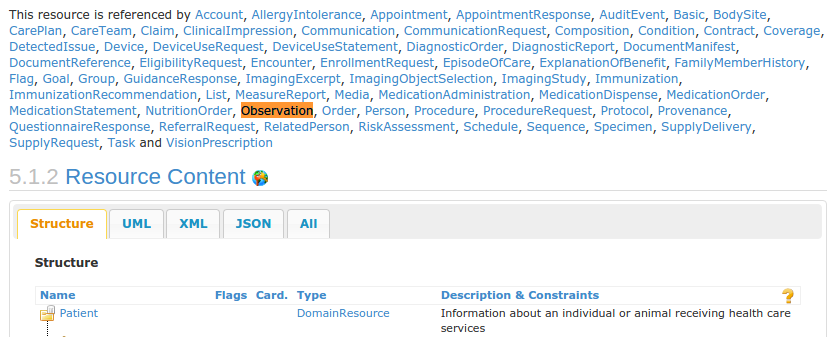
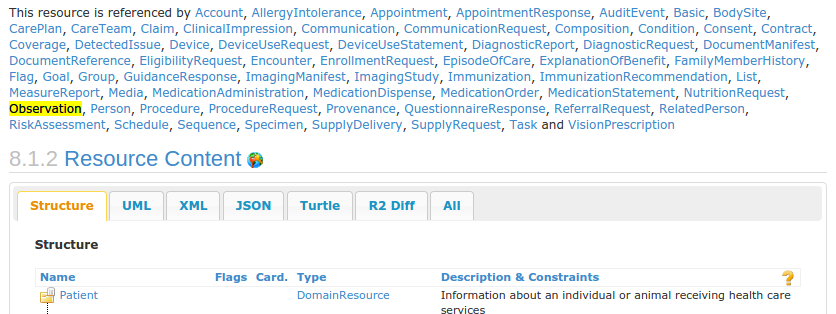
Updated Patient with references to STU3 (not fully)
Need to wait for Brian to fix his server so I can update screenshots

diff --git a/patient-with-references.html b/patient-with-references.html
@@ -148,10 +148,10 @@
                         
                         <p>In the same Postman window, press Ctrl/&#8984;+F and copy/paste <code>reference</code> - you'll find that the Patient contains <a href="images/patient-references.png" data-lightbox="patient-references">just one reference</a>, which is the medical organisation that the Patient belongs to. Even though our patient had an encounter (when he came into the hospital for his procedure), it is not listed here.</p>
                         
-                        <p>Instead, it is the Encounter that has a reference to the Patient. That way, more Encounters can be added without having to update the Patient resource every time (which can become very time-consuming in a large system). In the next section, you'll see how you can find the Encounter that's associated with your Patient.</p>
+                        <p>Instead, it is the Encounter that has a reference to the Patient. That way more Encounters can be added without having to update the Patient resource every time (which can become very time-consuming in a large system). In the next section, you'll see how you can find the Encounter that's associated with your Patient.</p>
                         
                         <h5 id="pr-search-resource-using-reference">Step 4: Search for a resource using a reference</h5>
-                        <p>FHIR has a notion of Search Parameters, which allow you to locate resources given certain data you know about them. As a sample usecase, let's find the Encounter that's associated with our patient. Scrolling down to the <a href="http://hl7.org/fhir/2016Sep/encounter.html#search">Search Parameters</a> section of Encounter, we see that there's one named <a href="images/encounter-search-parameters.png" data-lightbox="encounter-search-parameters">patient</a> which allows us to search for the patient present in the encounter.</p>
+                        <p>FHIR has a notion of Search Parameters, which allow you to locate resources given certain information you know about them. As a sample usecase, let's find the Encounter that's associated with our patient. Scrolling down to the <a href="http://hl7.org/fhir/2016Sep/encounter.html#search">Search Parameters</a> section of Encounter, we see that there's one named <a href="images/encounter-search-parameters.png" data-lightbox="encounter-search-parameters">patient</a> which allows us to search for the patient present in the encounter.</p>
                         <p>Thus, given the patient's server ID of <code class="patient-with-references-serverid" id="rf-patient"><i>(press Upload first)</i></code> (this can be seen at the end of the URL and in the <a href="images/patients-id.png" data-lightbox="patients-id">&lt;id&gt;</a> field), in order to find which encounters our patient has, the query follows this format:</p> 
                         <pre><b><span class="patient-with-references-baseurl" id="rf-patient">(press Upload first)</span>/Encounter?patient=&lt;patient id&gt;</b></pre>
                         <p>It essentially says - "give me all Encounters that have this patient ID as the subject patient". Try entering <code class="patient-with-references-baseurl" id="rf-patient">(press Upload first)</code><code>/Encounter?patient=</code><code class="patient-with-references-serverid" id="rf-patient"></code> into Postman - you'll see a result like this:</p>
